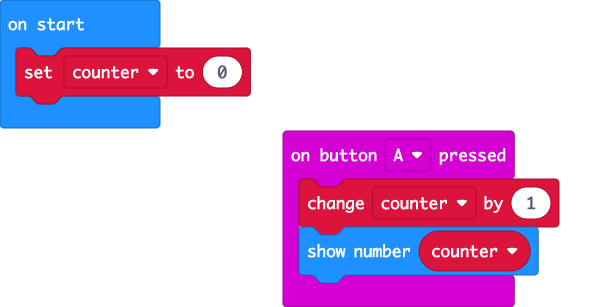
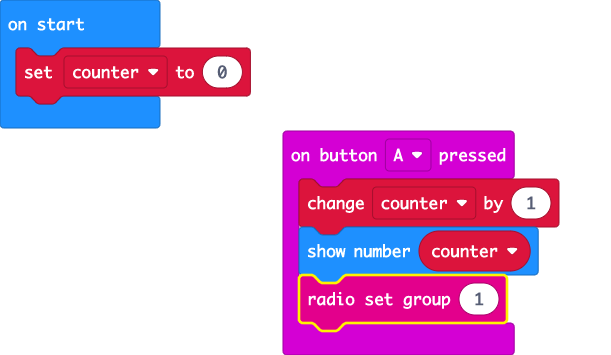
Update pxt.json, main.blocks, main.ts

Changed region(s): [[0.4354, 0.3518, 0.9329, 0.9381], [0.0, 0.0586, 0.4354, 0.4397]]

diff --git a/main.ts b/main.ts
@@ -1,6 +1,7 @@
 input.onButtonPressed(Button.A, function () {
     counter += 1
     basic.showNumber(counter)
+    radio.setGroup(1)
 })
 let counter = 0
 counter = 0
